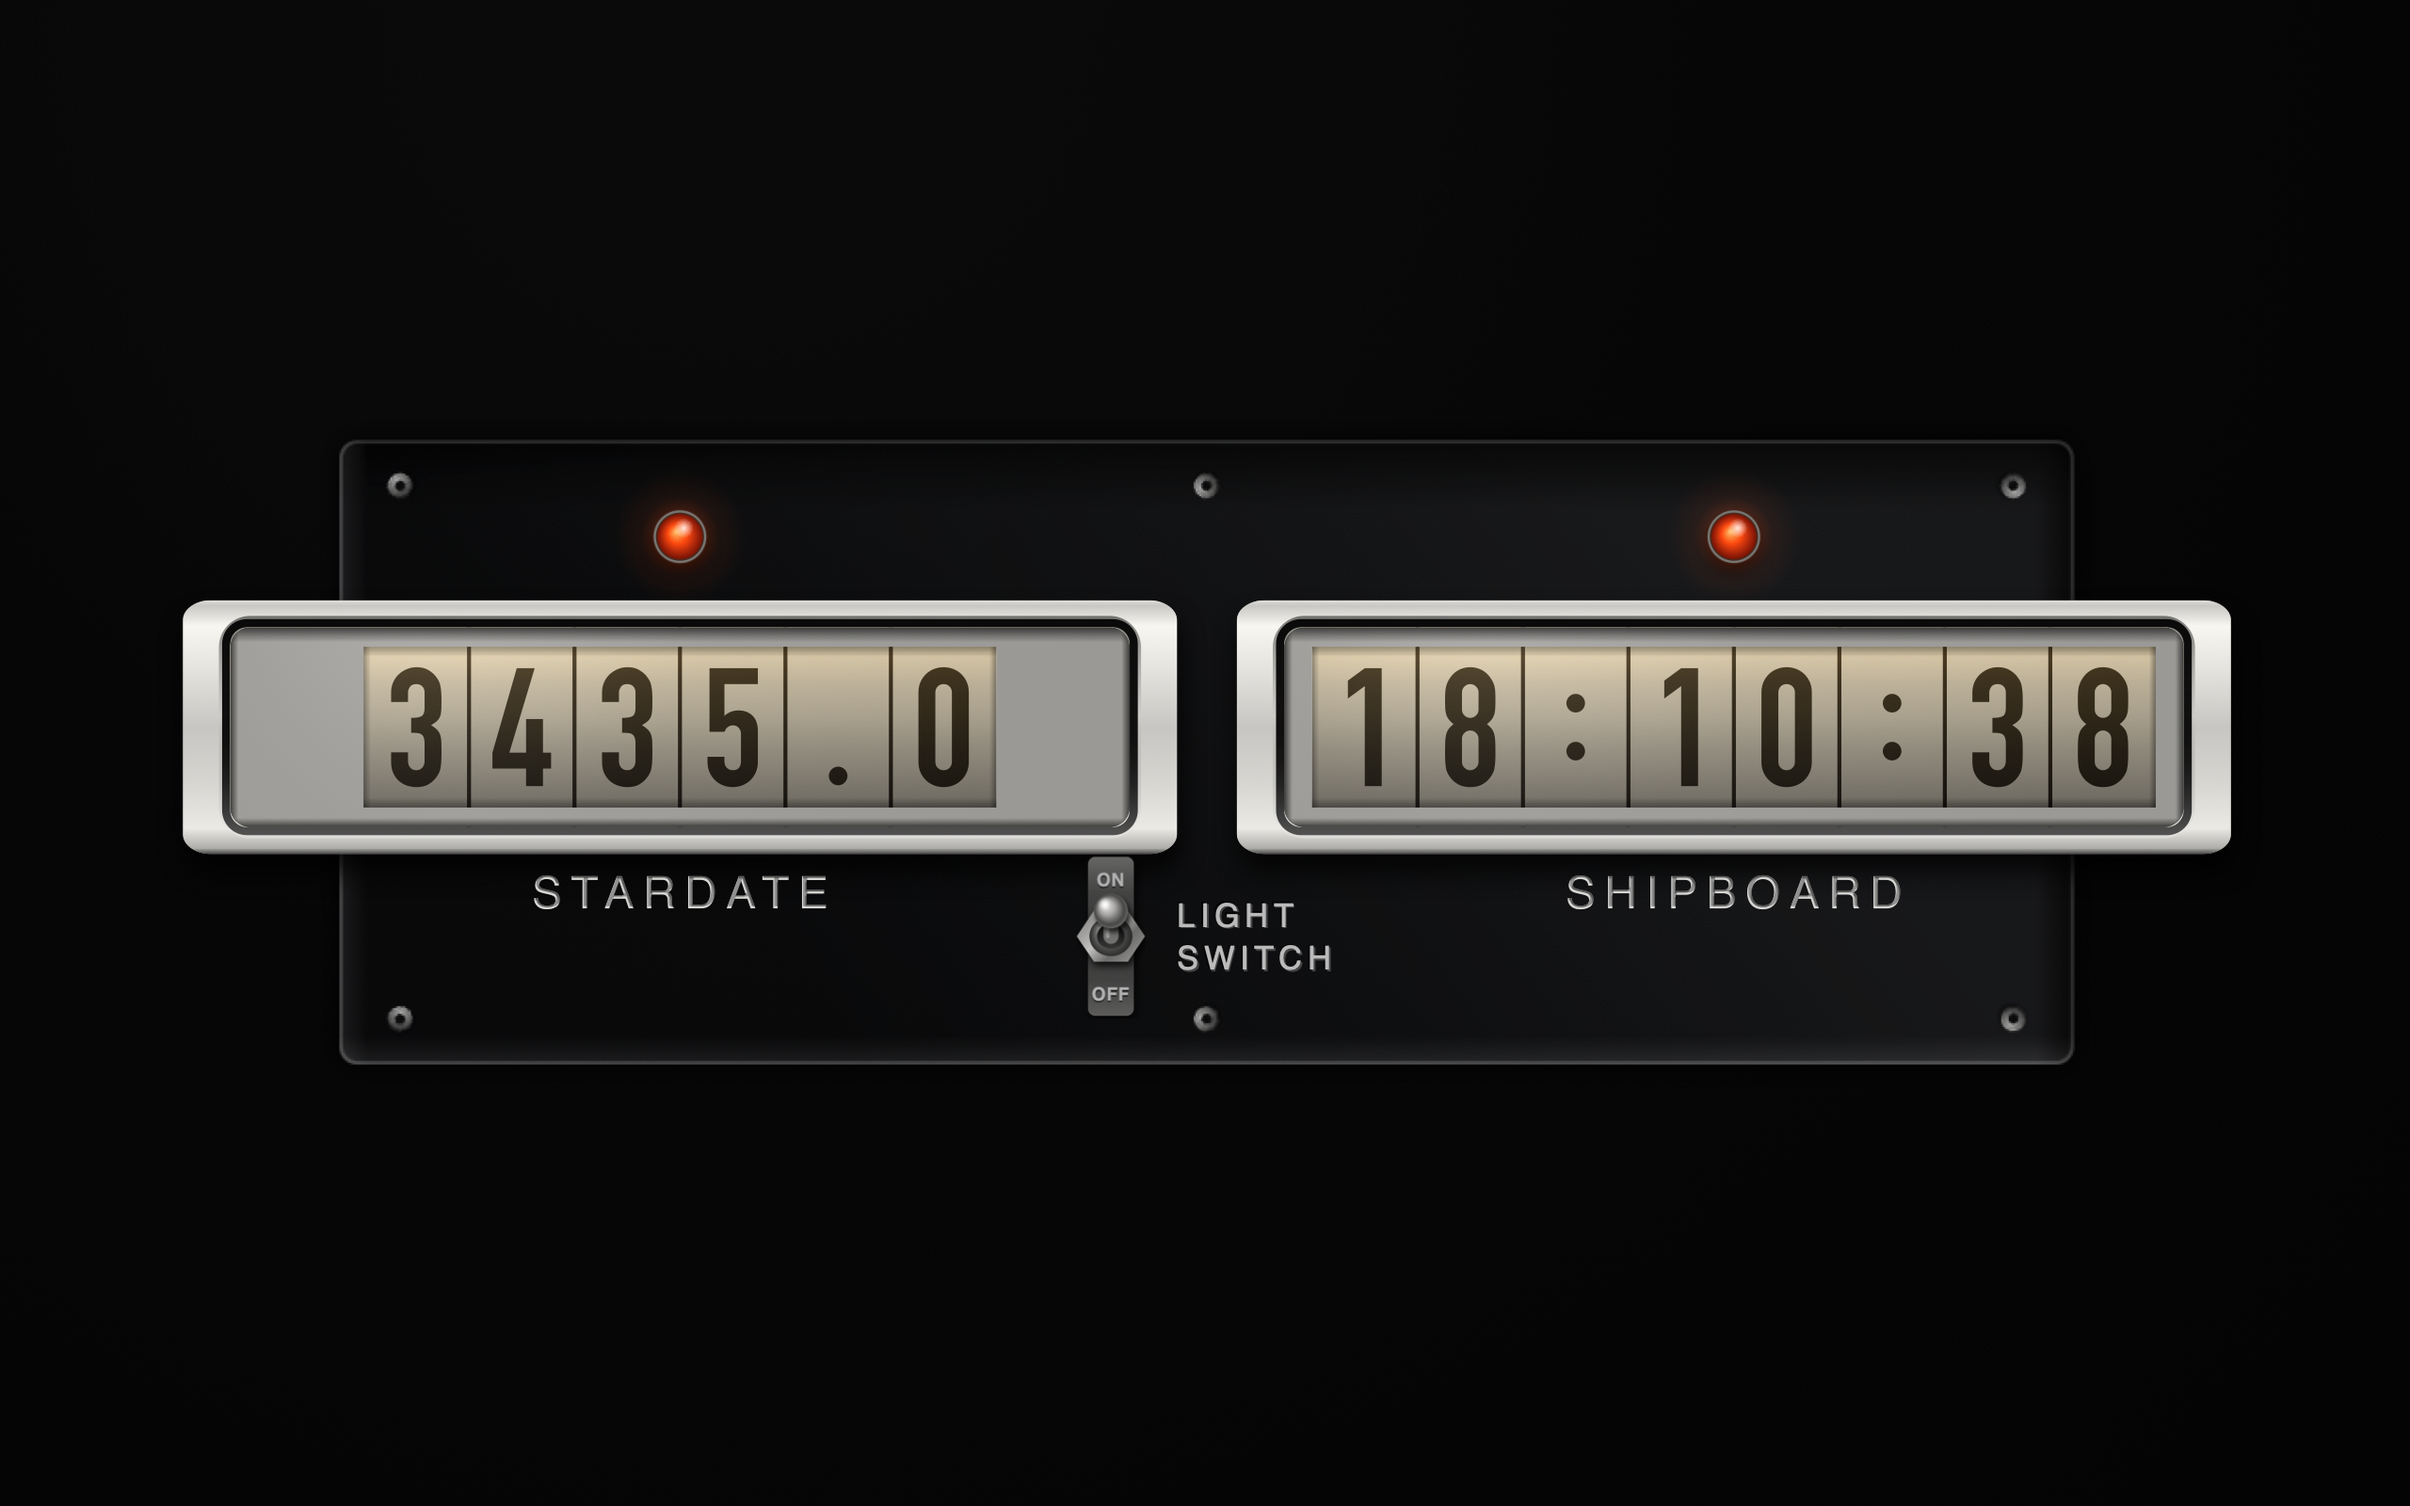
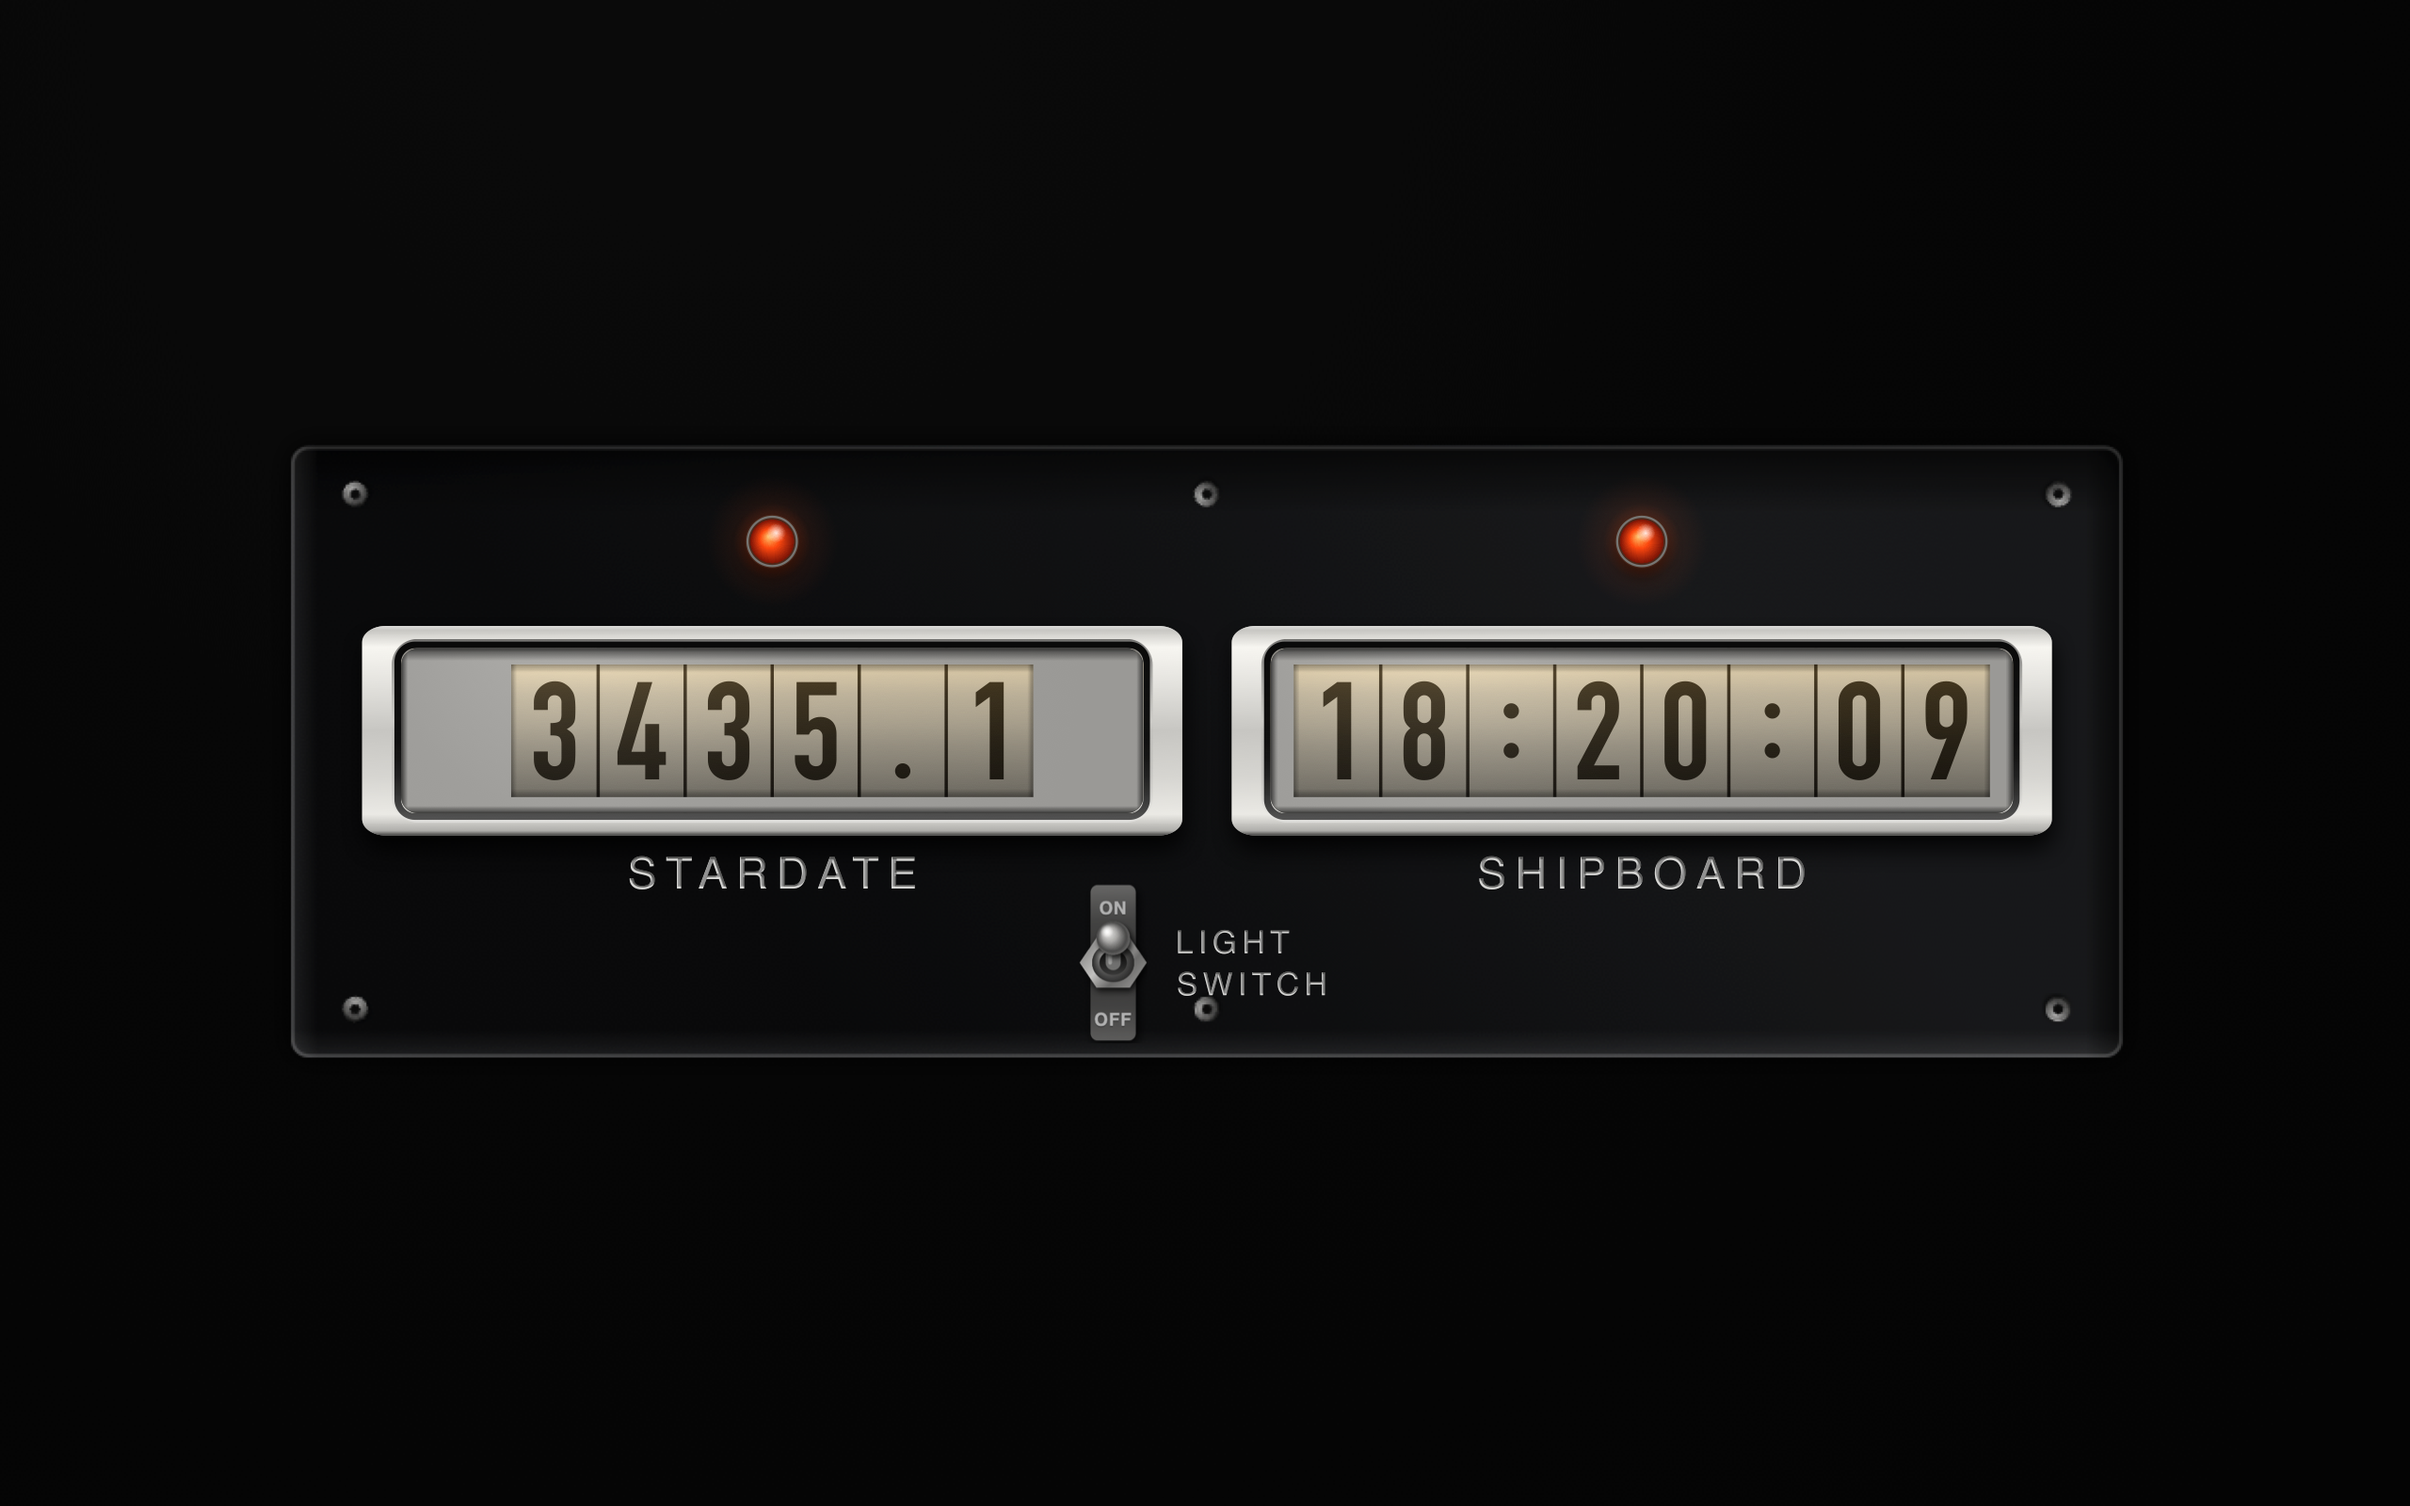
Size the chronometer plate from its apertures, not the reverse
The readouts hung off both ends of the backing plate. The chain ran plate ->
plate height -> aperture height -> aperture width, which made the pair plus its
gap a fixed 1.125x the plate width. No plate size could ever contain them; it
was arithmetic, not tuning.

Reversed: the aperture height is solved from the width actually available, and
the plate follows from that. The gap factor is read from bezelSideWidth against
a unit rect rather than restating the constants, so the two cannot drift.

The light switch drops lower on the plate, and its legend is engraved the same
way as the captions - clipped inside the letterforms. It was still using the
older offset-copy shadow, which reads as type sitting on the surface rather
than cut into it.

Changed region(s): [[0.0625, 0.2812, 0.9375, 0.7188]]

diff --git a/src/CounterWindow.swift b/src/CounterWindow.swift
@@ -1158,36 +1158,50 @@ enum CounterChrome {
     }
 
     /// Left-justified caption, one line per element, as panel legends are set.
+    /// Engraved the same way as `drawEtchedLabel` when asked: shading clipped
+    /// inside the letterforms, not dropped behind them.
     static func drawLegend(_ ctx: CGContext, _ lines: [String],
                            leftAt p: CGPoint, size: CGFloat, etched: Bool = false) {
         let font = NSFont(name: "Helvetica", size: size) ?? .systemFont(ofSize: size)
         let kern = size * 0.16
         let lead = size * 1.32
         let top = p.y + lead * CGFloat(lines.count - 1) / 2
-        NSGraphicsContext.saveGraphicsState()
-        NSGraphicsContext.current = NSGraphicsContext(cgContext: ctx, flipped: false)
         for (i, line) in lines.enumerated() {
-            if etched {
-                for (dx, dy, w, a) in [(-size * 0.045, size * 0.045, CGFloat(0.0), CGFloat(0.75)),
-                                       (size * 0.05, -size * 0.05, CGFloat(0.72), CGFloat(0.35))] {
-                    let cut = NSAttributedString(string: line, attributes: [
-                        .font: font,
-                        .foregroundColor: NSColor(white: w, alpha: a),
-                        .kern: kern,
-                    ])
-                    cut.draw(at: NSPoint(x: p.x + dx,
-                                         y: top - lead * CGFloat(i) - cut.size().height / 2 + dy))
-                }
+            let y = top - lead * CGFloat(i)
+            guard etched else {
+                NSGraphicsContext.saveGraphicsState()
+                NSGraphicsContext.current = NSGraphicsContext(cgContext: ctx, flipped: false)
+                let a = NSAttributedString(string: line, attributes: [
+                    .font: font,
+                    .foregroundColor: NSColor(cgColor: CounterStyle.label) ?? .white,
+                    .kern: kern,
+                ])
+                a.draw(at: NSPoint(x: p.x, y: y - a.size().height / 2))
+                NSGraphicsContext.restoreGraphicsState()
+                continue
             }
-            let a = NSAttributedString(string: line, attributes: [
-                .font: font,
-                .foregroundColor: etched ? NSColor(white: 0.80, alpha: 0.96)
-                                         : (NSColor(cgColor: CounterStyle.label) ?? .white),
-                .kern: kern,
-            ])
-            a.draw(at: NSPoint(x: p.x, y: top - lead * CGFloat(i) - a.size().height / 2))
+            let glyphs = textPath(line, font: font, kern: kern)
+            let b = glyphs.boundingBox
+            guard b.width > 0 else { continue }
+            var t = CGAffineTransform(translationX: p.x - b.minX, y: y - b.midY)
+            guard let path = glyphs.copy(using: &t) else { continue }
+            let d = size * 0.055
+            ctx.saveGState()
+            ctx.addPath(path)
+            ctx.setFillColor(CGColor(red: 0.80, green: 0.80, blue: 0.79, alpha: 0.96))
+            ctx.fillPath()
+            ctx.addPath(path)
+            ctx.clip()
+            var s1 = CGAffineTransform(translationX: lightX * d, y: lightY * d)
+            if let p1 = path.copy(using: &s1) {
+                ctx.setFillColor(black(0.55)); ctx.addPath(p1); ctx.fillPath(using: .evenOdd)
+            }
+            var s2 = CGAffineTransform(translationX: -lightX * d, y: -lightY * d)
+            if let p2 = path.copy(using: &s2) {
+                ctx.setFillColor(white(0.34)); ctx.addPath(p2); ctx.fillPath(using: .evenOdd)
+            }
+            ctx.restoreGState()
         }
-        NSGraphicsContext.restoreGraphicsState()
     }
 
     /// Rendered width of a label, so callers can space things against the real

diff --git a/src/ChronometerView.swift b/src/ChronometerView.swift
@@ -173,16 +173,22 @@ public class ChronometerView: ScreenSaverView {
         let dx = CGFloat(sin(drift / 97.0 * 2 * .pi)) * amp
         let dy = CGFloat(sin(drift / 131.0 * 2 * .pi)) * amp * 0.6
 
-        let plateW = min(bounds.width * 0.72, bounds.height * 2.1)
-        let plateH = plateW * 0.36
+        // Size the apertures from the space actually available, then let the
+        // plate follow. Deriving the windows from the plate instead made the
+        // pair plus its gap 1.125x the plate width, so they hung off both ends.
+        let plateW = min(bounds.width * 0.76, bounds.height * 2.3)
+        let unit = CGRect(x: 0, y: 0, width: 1, height: 1)
+        let gapPerHeight = CounterChrome.bezelSideWidth(forAperture: unit) * 2 + 0.30
+        let winHeight = (plateW * 0.88) / (2 * ChronometerView.windowAspect + gapPerHeight)
+        let plateH = winHeight / 0.27
         let p = CGRect(x: bounds.midX - plateW / 2 + dx,
                        y: bounds.midY - plateH / 2 + dy,
                        width: plateW, height: plateH)
 
         CounterChrome.drawUnitPlate(ctx, p, screwInset: p.width * 0.035)
 
-        let winH = p.height * 0.32
-        let winY = p.maxY - p.height * 0.62
+        let winH = winHeight
+        let winY = p.maxY - p.height * 0.60
         let eachW = winH * ChronometerView.windowAspect
         let sideW = CounterChrome.bezelSideWidth(
             forAperture: CGRect(x: 0, y: 0, width: 1, height: winH))
@@ -238,7 +244,7 @@ public class ChronometerView: ScreenSaverView {
             let capClear = togS * 0.45
             let groupW = togS + capClear + capW
             let togX = p.midX - groupW / 2 + togS / 2
-            let rowY = p.minY + p.height * 0.205
+            let rowY = p.minY + p.height * 0.155
             Hardware.drawToggle(ctx, at: CGPoint(x: togX, y: rowY), scale: togS)
             CounterChrome.drawLegend(ctx, ["LIGHT", "SWITCH"],
                                      leftAt: CGPoint(x: togX + togS / 2 + capClear, y: rowY),
